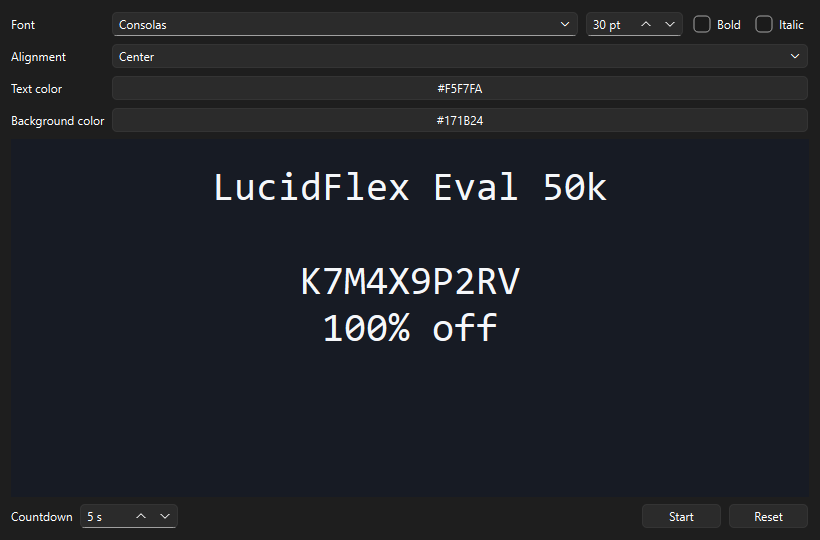
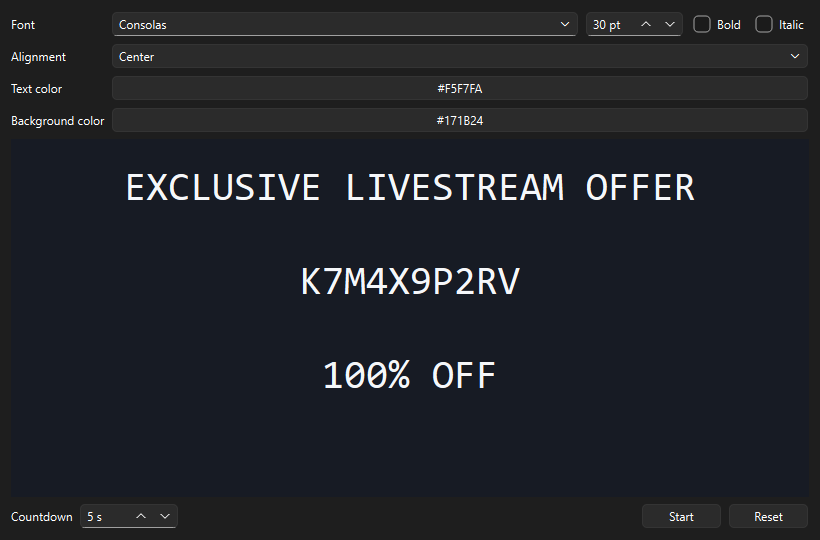
docs: replace simulator screenshot with fictional offer

Changed region(s): [[0.1524, 0.2963, 0.8537, 0.3852], [0.3963, 0.563, 0.6098, 0.7407]]

diff --git a/README.md b/README.md
@@ -97,7 +97,7 @@ the countdown. The simulator records reveal timestamps locally.
 ./.venv/Scripts/python.exe scripts/livestream_code_simulator.py
 ```
 
-![Livestream Code Simulator on Windows, showing formatting controls and sample text](docs/images/simulator.png)
+![Livestream Code Simulator on Windows showing a fictional livestream offer on a dark background](docs/images/simulator.png)
 
 [Simulator validation](docs/SIMULATOR_VALIDATION.md)
 
